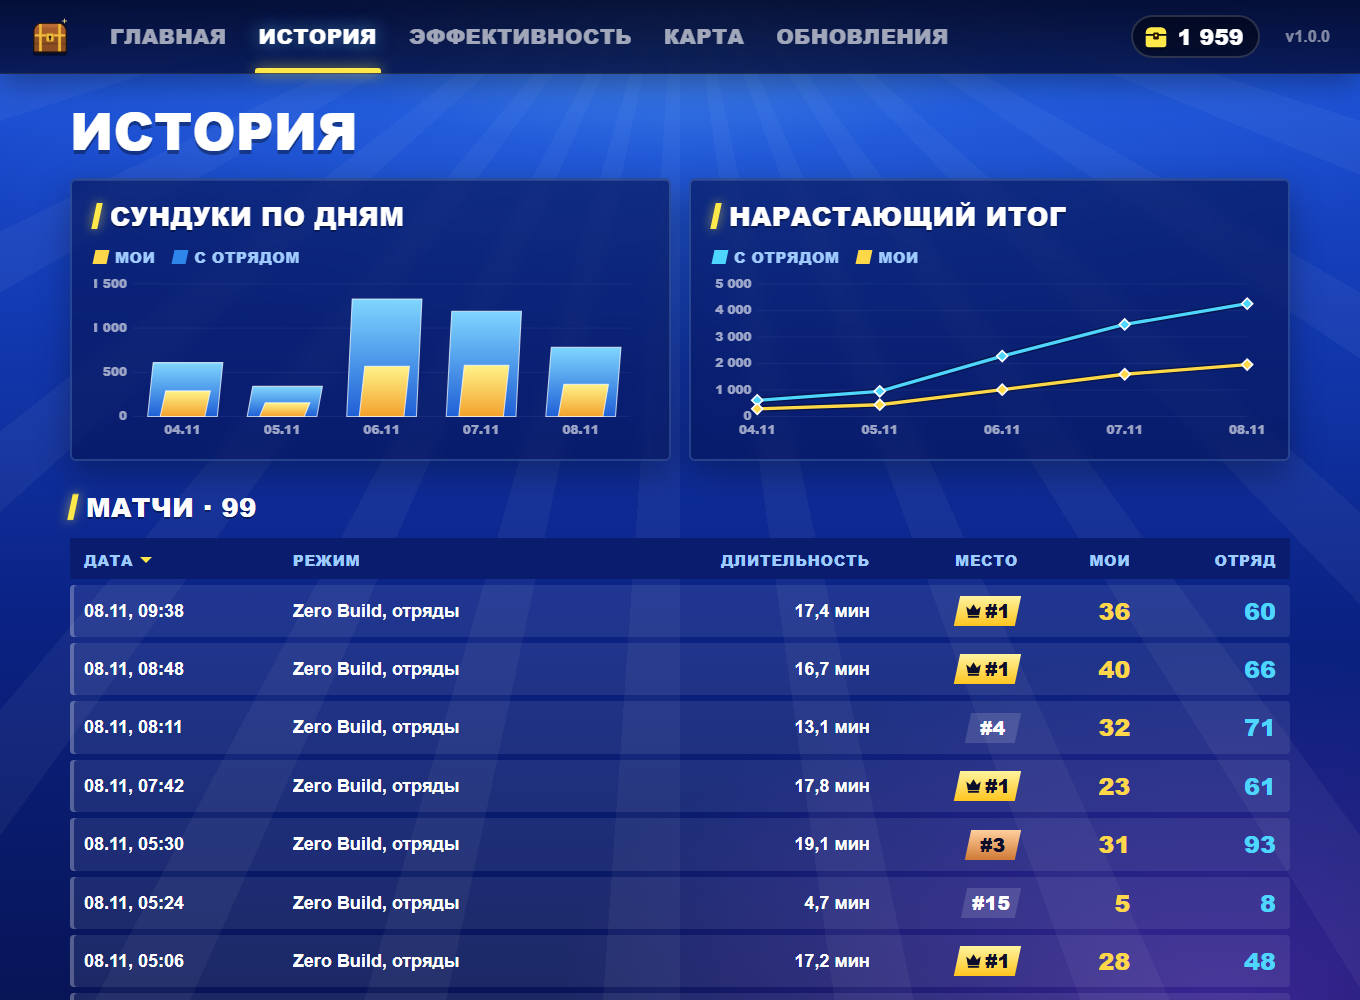
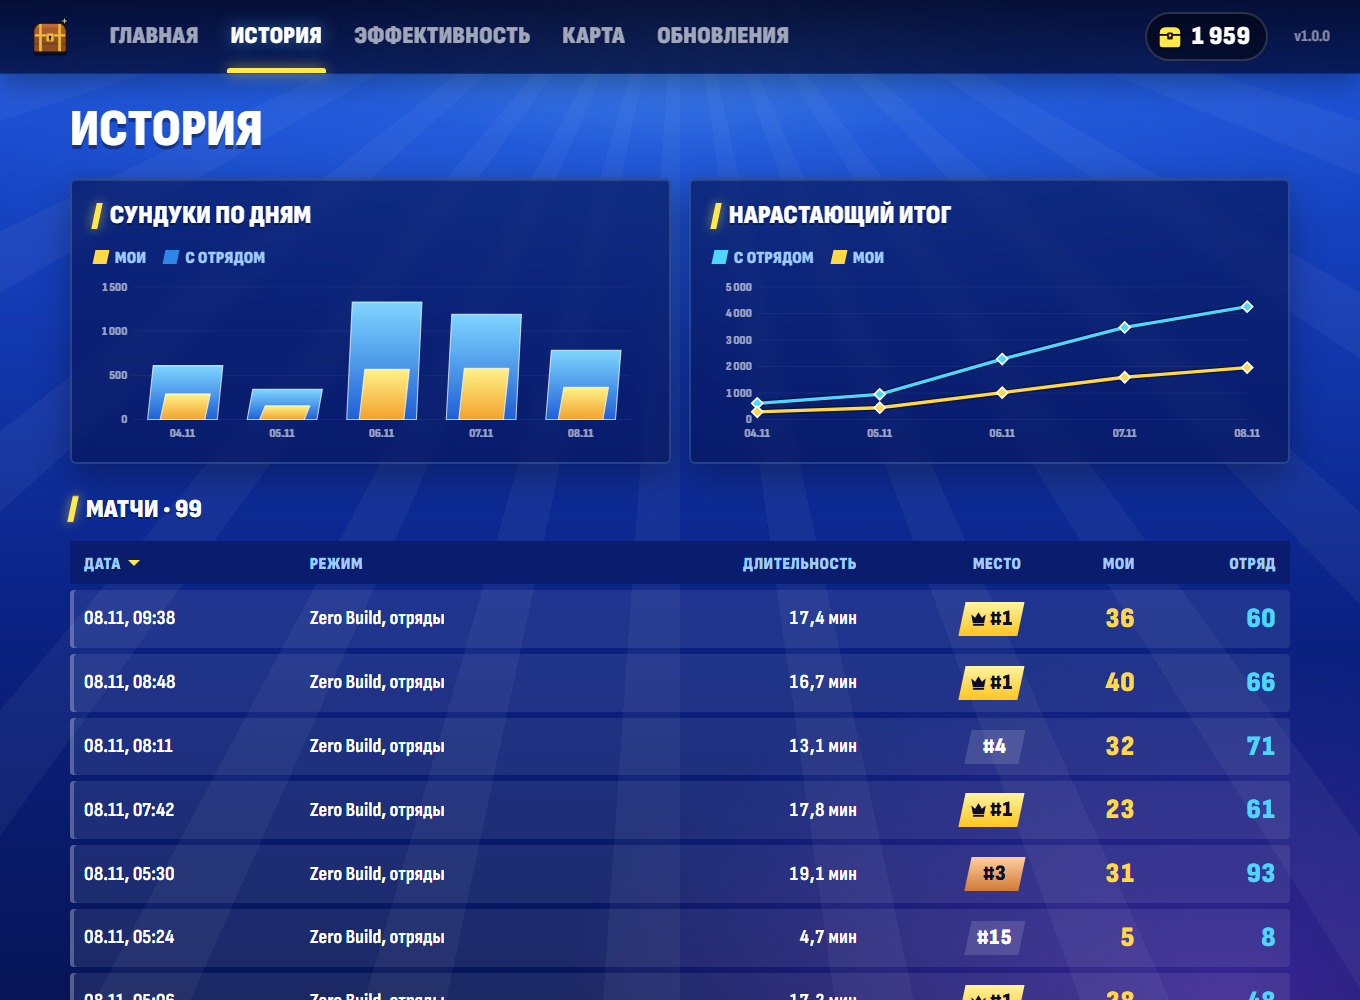
v1.0.6: load the embedded font, sizes tuned for it
- embedded files in sub-folders (fonts) were stored with a backslash in their resource
  name and returned 404, so the UI fell back to a system font; names are now normalised
- type sizes adjusted for the condensed display font; README screenshots updated

diff --git a/src/PirateChest.App/wwwroot/styles.css b/src/PirateChest.App/wwwroot/styles.css
@@ -31,8 +31,9 @@ html, body { margin: 0; padding: 0; }
 body {
   font-family: var(--display);
   font-weight: 600;
-  font-size: 17px;
+  font-size: 18px;
   line-height: 1.35;
+  letter-spacing: .15px;
   color: #fff;
   min-height: 100vh;
   background-color: #08185f;
@@ -63,7 +64,7 @@ nav.tabs { display: flex; gap: 4px; height: 100%; }
 nav.tabs a {
   position: relative; display: flex; align-items: center; padding: 0 14px;
   color: rgba(255, 255, 255, .62); text-decoration: none;
-  font-weight: 900; font-size: 21px; text-transform: uppercase; letter-spacing: .4px;
+  font-weight: 900; font-size: 24px; text-transform: uppercase; letter-spacing: .5px;
   transition: color .12s;
 }
 nav.tabs a:hover { color: #fff; }
@@ -74,9 +75,9 @@ nav.tabs a.active::after {
 }
 .top .spacer { flex: 1; }
 .chip {
-  display: flex; align-items: center; gap: 8px; padding: 5px 14px 5px 10px; border-radius: 999px;
+  display: flex; align-items: center; gap: 8px; padding: 5px 16px 5px 10px; border-radius: 999px;
   background: rgba(0, 0, 0, .45); border: 2px solid rgba(255, 255, 255, .16);
-  font-weight: 900; font-size: 22px; font-variant-numeric: tabular-nums;
+  font-weight: 900; font-size: 26px; font-variant-numeric: tabular-nums;
 }
 .chip .ico { width: 26px; height: 26px; color: var(--yellow); --ia: #2a1600; filter: drop-shadow(0 2px 0 rgba(0, 0, 0, .5)); }
 .top .ver { color: rgba(255, 255, 255, .5); font-weight: 700; font-size: 16px; }
@@ -88,7 +89,7 @@ h2 {
   display: flex; align-items: center; gap: 10px; text-shadow: 0 2px 0 rgba(0, 0, 0, .35);
 }
 h2::before { content: ""; width: 6px; height: 26px; background: var(--yellow); transform: skewX(-12deg); box-shadow: 0 0 10px rgba(255, 233, 74, .6); }
-h3 { font-weight: 900; font-size: 18px; text-transform: uppercase; letter-spacing: .5px; color: var(--label); margin: 0 0 6px; }
+h3 { font-weight: 900; font-size: 21px; text-transform: uppercase; letter-spacing: .5px; color: var(--label); margin: 0 0 6px; }
 
 .grid { display: grid; gap: 18px; }
 .g2 { grid-template-columns: repeat(2, minmax(0, 1fr)); }
@@ -127,8 +128,8 @@ h3 { font-weight: 900; font-size: 18px; text-transform: uppercase; letter-spacin
   position: absolute; left: 0; right: 0; bottom: 0; padding: 12px 18px 14px;
   background: linear-gradient(180deg, rgba(0, 0, 0, 0) 0%, rgba(0, 0, 0, .55) 45%, rgba(0, 0, 0, .72) 100%);
 }
-.tile .band .name { font-weight: 900; font-size: 26px; text-transform: uppercase; line-height: 1; letter-spacing: .3px; text-shadow: 0 2px 0 rgba(0, 0, 0, .5); }
-.tile .band .sub { font-weight: 700; font-size: 15px; color: rgba(255, 255, 255, .85); margin-top: 3px; }
+.tile .band .name { font-weight: 900; font-size: 30px; text-transform: uppercase; line-height: 1; letter-spacing: .3px; text-shadow: 0 2px 0 rgba(0, 0, 0, .5); }
+.tile .band .sub { font-weight: 700; font-size: 17px; letter-spacing: .3px; color: rgba(255, 255, 255, .85); margin-top: 3px; }
 .tile .band::after { content: ""; position: absolute; left: 0; right: 0; bottom: 0; height: 5px; background: rgba(255, 255, 255, .55); }
 .tile.legendary .band::after { background: #ffbe4d; }
 .tile.epic .band::after { background: #cf7bff; }
@@ -137,9 +138,9 @@ h3 { font-weight: 900; font-size: 18px; text-transform: uppercase; letter-spacin
 
 .hero { height: 300px; }
 .hero .art { right: 8px; top: 34px; width: 236px; height: 192px; }
-.hero .value { position: absolute; left: 22px; top: 22px; font-weight: 900; font-size: 116px; line-height: .9; letter-spacing: -2px; font-variant-numeric: tabular-nums; text-shadow: 0 6px 0 rgba(0, 0, 0, .35), 0 0 40px rgba(0, 0, 0, .25); }
+.hero .value { position: absolute; left: 22px; top: 18px; font-weight: 900; font-size: 136px; line-height: .9; letter-spacing: -2px; font-variant-numeric: tabular-nums; text-shadow: 0 6px 0 rgba(0, 0, 0, .35), 0 0 40px rgba(0, 0, 0, .25); }
 .hero .tag { position: absolute; left: 22px; top: 158px; }
-.tag { display: inline-block; font-weight: 900; font-size: 16px; text-transform: uppercase; padding: 3px 12px; transform: skewX(-12deg); background: var(--yellow); color: var(--ink); box-shadow: 0 3px 0 rgba(0, 0, 0, .35); letter-spacing: .3px; }
+.tag { display: inline-block; font-weight: 900; font-size: 19px; text-transform: uppercase; padding: 3px 12px; transform: skewX(-12deg); background: var(--yellow); color: var(--ink); box-shadow: 0 3px 0 rgba(0, 0, 0, .35); letter-spacing: .3px; }
 .tag > span { display: inline-block; transform: skewX(12deg); }
 
 .typetile { height: 250px; }
@@ -156,19 +157,19 @@ h3 { font-weight: 900; font-size: 18px; text-transform: uppercase; letter-spacin
 .stats { display: flex; }
 .stats > div { flex: 1; padding: 2px 18px; border-left: 2px solid rgba(255, 255, 255, .1); }
 .stats > div:first-child { border-left: 0; padding-left: 0; }
-.stat .k { font-weight: 900; font-size: 15px; text-transform: uppercase; letter-spacing: .6px; color: var(--label); }
-.stat .v { font-weight: 900; font-size: 50px; line-height: 1.02; font-variant-numeric: tabular-nums; text-shadow: 0 3px 0 rgba(0, 0, 0, .35); }
+.stat .k { font-weight: 900; font-size: 17px; text-transform: uppercase; letter-spacing: .6px; color: var(--label); }
+.stat .v { font-weight: 900; font-size: 58px; line-height: 1.02; font-variant-numeric: tabular-nums; text-shadow: 0 3px 0 rgba(0, 0, 0, .35); }
 .stat .v.gold { color: var(--me); }
 .stat .v.sea { color: var(--squad); }
-.stat .v small { font-size: 20px; color: rgba(255, 255, 255, .8); font-weight: 800; }
-.stat .d { font-weight: 700; font-size: 15px; color: rgba(255, 255, 255, .7); }
+.stat .v small { font-size: 22px; color: rgba(255, 255, 255, .8); font-weight: 800; }
+.stat .d { font-weight: 700; font-size: 17px; color: rgba(255, 255, 255, .7); }
 .muted { color: rgba(255, 255, 255, .6); }
 
 .ministats { display: flex; gap: 14px; flex-wrap: wrap; margin-top: 18px; }
 .ministat { display: flex; align-items: center; gap: 12px; padding: 10px 18px; background: rgba(0, 0, 0, .3); border: 2px solid rgba(255, 255, 255, .1); border-radius: 6px; }
 .ministat .ico { width: 30px; height: 30px; color: var(--yellow); --ia: #2a1600; }
-.ministat .v { font-weight: 900; font-size: 30px; line-height: 1; }
-.ministat .k { font-weight: 800; font-size: 14px; text-transform: uppercase; color: var(--label); letter-spacing: .4px; }
+.ministat .v { font-weight: 900; font-size: 34px; line-height: 1; }
+.ministat .k { font-weight: 800; font-size: 16px; text-transform: uppercase; color: var(--label); letter-spacing: .4px; }
 
 /* ---------------------------------------------------------------- banners */
 .banner {
@@ -177,7 +178,7 @@ h3 { font-weight: 900; font-size: 18px; text-transform: uppercase; letter-spacin
   box-shadow: 0 6px 0 rgba(0, 0, 0, .25);
 }
 .banner .ico { width: 32px; height: 32px; --ia: #ffb52e; }
-.banner b { font-weight: 900; font-size: 20px; text-transform: uppercase; }
+.banner b { font-weight: 900; font-size: 22px; text-transform: uppercase; }
 .banner a { color: inherit; }
 .banner.info { background: linear-gradient(90deg, #1d63df, #3fa8ff); color: #fff; }
 .banner.info .ico { --ia: #1d63df; }
@@ -186,10 +187,10 @@ h3 { font-weight: 900; font-size: 18px; text-transform: uppercase; letter-spacin
 
 /* ---------------------------------------------------------------- leaderboard tables */
 .boardwrap { max-height: 640px; overflow: auto; margin: -6px 0 0; }
-.board { width: 100%; border-collapse: separate; border-spacing: 0 6px; font-size: 18px; }
+.board { width: 100%; border-collapse: separate; border-spacing: 0 6px; font-size: 20px; }
 .board th {
   position: sticky; top: 0; z-index: 1; text-align: left; padding: 12px 14px 8px; background: #0a1c6e;
-  font-weight: 900; font-size: 15px; text-transform: uppercase; letter-spacing: .6px; color: var(--label);
+  font-weight: 900; font-size: 17px; text-transform: uppercase; letter-spacing: .6px; color: var(--label);
   user-select: none; white-space: nowrap;
 }
 .board th.sort { cursor: pointer; }
@@ -204,14 +205,14 @@ h3 { font-weight: 900; font-size: 18px; text-transform: uppercase; letter-spacin
 .board tbody tr td:first-child { box-shadow: inset 4px 0 0 rgba(255, 255, 255, .25); }
 .board tbody tr:hover td:first-child { box-shadow: inset 4px 0 0 var(--yellow); }
 .board td.n, .board th.n { text-align: right; font-variant-numeric: tabular-nums; }
-.board td.big { font-weight: 900; font-size: 24px; }
+.board td.big { font-weight: 900; font-size: 28px; }
 .board td.gold { color: var(--me); }
 .board td.sea { color: var(--squad); }
 .board td.wrap { white-space: normal; }
 .board td.empty { text-align: center; color: rgba(255, 255, 255, .6); padding: 24px; background: rgba(255, 255, 255, .05); }
 .rank {
-  display: inline-flex; align-items: center; justify-content: center; min-width: 50px; padding: 2px 8px;
-  font-weight: 900; font-size: 19px; transform: skewX(-12deg); background: rgba(255, 255, 255, .14); color: #fff;
+  display: inline-flex; align-items: center; justify-content: center; min-width: 54px; padding: 2px 8px;
+  font-weight: 900; font-size: 22px; transform: skewX(-12deg); background: rgba(255, 255, 255, .14); color: #fff;
 }
 .rank > span { display: inline-flex; align-items: center; gap: 3px; transform: skewX(12deg); }
 .rank.r1 { background: linear-gradient(180deg, #fff4a0, #ffc51f); color: var(--ink); }
@@ -223,7 +224,7 @@ h3 { font-weight: 900; font-size: 18px; text-transform: uppercase; letter-spacin
 
 /* ---------------------------------------------------------------- buttons, inputs */
 button {
-  font-family: var(--display); font-weight: 900; font-size: 20px; text-transform: uppercase; letter-spacing: .4px;
+  font-family: var(--display); font-weight: 900; font-size: 23px; text-transform: uppercase; letter-spacing: .5px;
   cursor: pointer; padding: 10px 26px; border: 0; color: #fff; background: rgba(255, 255, 255, .14);
   transform: skewX(-12deg); box-shadow: inset 0 0 0 2px rgba(255, 255, 255, .45), 0 5px 0 rgba(0, 0, 0, .3);
   display: inline-flex; align-items: center; gap: 8px;
@@ -236,11 +237,11 @@ button.primary:hover { background: var(--yellow-hi); }
 button.primary .ico { --ia: var(--yellow); }
 button:disabled { opacity: .55; cursor: default; }
 select {
-  font-family: var(--display); font-weight: 800; font-size: 18px; color: #fff; padding: 9px 14px; min-width: 300px;
+  font-family: var(--display); font-weight: 800; font-size: 20px; color: #fff; padding: 9px 14px; min-width: 320px;
   background: rgba(0, 0, 0, .4); border: 2px solid rgba(255, 255, 255, .25); border-radius: 4px;
 }
 select option { background: #0a1c6e; }
-label.chk { display: inline-flex; gap: 9px; align-items: center; cursor: pointer; user-select: none; font-weight: 900; font-size: 17px; text-transform: uppercase; letter-spacing: .3px; }
+label.chk { display: inline-flex; gap: 9px; align-items: center; cursor: pointer; user-select: none; font-weight: 900; font-size: 20px; text-transform: uppercase; letter-spacing: .3px; }
 label.chk input { appearance: none; width: 22px; height: 22px; margin: 0; border: 2px solid rgba(255, 255, 255, .6); background: rgba(0, 0, 0, .35); transform: skewX(-10deg); cursor: pointer; }
 label.chk input:checked { background: var(--yellow); border-color: #fff; box-shadow: inset 0 0 0 3px #0b1a5c; }
 .dot { display: inline-block; width: 14px; height: 14px; border-radius: 50%; border: 2px solid #0b0d2a; }
@@ -250,7 +251,7 @@ label.chk input:checked { background: var(--yellow); border-color: #fff; box-sha
 .chart svg:not(.ico) { width: 100%; height: auto; display: block; }
 .chart .axis text { fill: rgba(255, 255, 255, .6); font-size: 22px; font-family: var(--display); font-weight: 800; }
 .chart .grid line { stroke: rgba(255, 255, 255, .1); }
-.legend { display: flex; gap: 18px; margin-bottom: 8px; font-weight: 900; font-size: 15px; text-transform: uppercase; color: var(--label); letter-spacing: .4px; }
+.legend { display: flex; gap: 18px; margin-bottom: 8px; font-weight: 900; font-size: 17px; text-transform: uppercase; color: var(--label); letter-spacing: .4px; }
 .legend i { display: inline-block; width: 14px; height: 14px; margin-right: 7px; vertical-align: -1px; transform: skewX(-12deg); }
 
 /* ---------------------------------------------------------------- map */
@@ -258,11 +259,11 @@ label.chk input:checked { background: var(--yellow); border-color: #fff; box-sha
 .mapframe canvas { display: block; width: 100%; height: auto; border-radius: 3px; }
 .mapframe .credit { position: absolute; right: 18px; bottom: 16px; font-size: 13px; font-weight: 700; color: rgba(255, 255, 255, .8); background: rgba(0, 0, 0, .55); padding: 2px 9px; border-radius: 3px; }
 
-.steps { margin: 4px 0 0; padding-left: 26px; font-size: 19px; }
+.steps { margin: 4px 0 0; padding-left: 26px; font-size: 21px; }
 .steps li { margin: 6px 0; }
 .steps b { color: var(--yellow); font-weight: 900; }
-.kv { display: grid; grid-template-columns: 190px 1fr; gap: 10px 16px; align-items: center; font-size: 19px; }
-.kv > div:nth-child(odd) { font-weight: 900; font-size: 15px; text-transform: uppercase; letter-spacing: .5px; color: var(--label); }
+.kv { display: grid; grid-template-columns: 200px 1fr; gap: 10px 16px; align-items: center; font-size: 21px; }
+.kv > div:nth-child(odd) { font-weight: 900; font-size: 17px; text-transform: uppercase; letter-spacing: .5px; color: var(--label); }
 .tile .kv > div:nth-child(odd) { color: rgba(255, 255, 255, .85); }
 .loading { font-weight: 900; font-size: 34px; text-transform: uppercase; letter-spacing: 1px; color: rgba(255, 255, 255, .7); padding: 60px 0; text-align: center; }
 .empty { color: rgba(255, 255, 255, .6); padding: 20px; text-align: center; }

diff --git a/src/PirateChest.App/WebServer.cs b/src/PirateChest.App/WebServer.cs
@@ -146,6 +146,11 @@ public sealed class WebServer : IAsyncDisposable
         };
     }
 
+    /// <summary>Embedded file names, normalised to '/' (MSBuild keeps a backslash for sub-folders such as fonts).</summary>
+    private static readonly Dictionary<string, string> Resources = typeof(WebServer).Assembly.GetManifestResourceNames()
+        .GroupBy(n => n.Replace('\\', '/'), StringComparer.OrdinalIgnoreCase)
+        .ToDictionary(g => g.Key, g => g.First(), StringComparer.OrdinalIgnoreCase);
+
     private static IResult ServeEmbedded(string? path)
     {
         path = string.IsNullOrEmpty(path) ? "index.html" : path.Replace('\\', '/');
@@ -158,7 +163,7 @@ public sealed class WebServer : IAsyncDisposable
             return Results.File(Path.Combine(AppPaths.DataDir, "map.png"), "image/png");
         }
         var asm = typeof(WebServer).Assembly;
-        var stream = asm.GetManifestResourceStream("wwwroot/" + path);
+        var stream = Resources.TryGetValue("wwwroot/" + path, out var resName) ? asm.GetManifestResourceStream(resName) : null;
         if (stream == null)
         {
             if (!path.Contains('.'))
